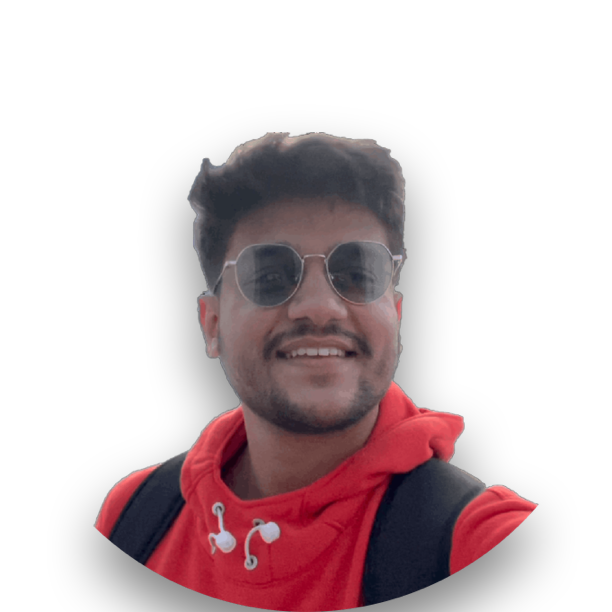
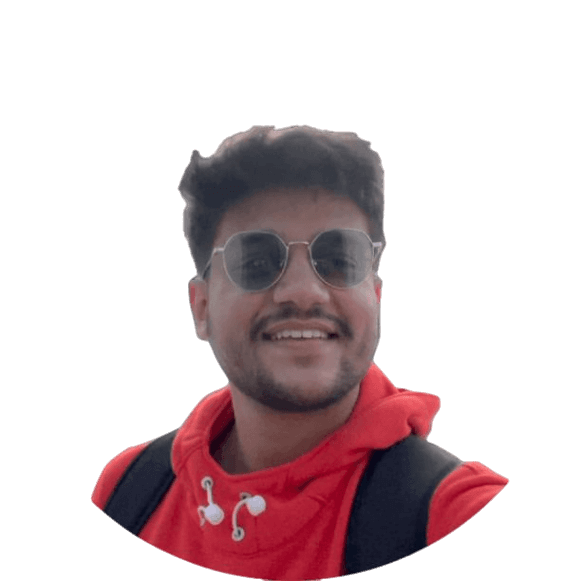
Header Completed

diff --git a/index.html b/index.html
@@ -2,16 +2,16 @@
 <html lang="en">
 
 <head>
-    <meta charset="UTF-8">
-    <meta name="viewport" content="width=device-width, initial-scale=1.0">
+    <meta charset="UTF-8" />
+    <meta name="viewport" content="width=device-width, initial-scale=1.0" />
 
-    <link rel="shortcut icon" href="assets/img/favicon.png" type="image/x-icon">
+    <link rel="shortcut icon" href="assets/img/favicon.png" type="image/x-icon" />
 
     <!-- Remix Icons -->
-    <link href="https://cdn.jsdelivr.net/npm/remixicon@3.2.0/fonts/remixicon.css" rel="stylesheet">
+    <link href="https://cdn.jsdelivr.net/npm/remixicon@3.2.0/fonts/remixicon.css" rel="stylesheet" />
 
     <!-- CSS -->
-    <link rel="stylesheet" href="assets/css/styles.css">
+    <link rel="stylesheet" href="assets/css/styles.css" />
 
     <title>Shivam Bandral</title>
 </head>
@@ -19,7 +19,62 @@
 <body>
     <!-- Header Profile -->
     <header class="profile container">
+        <div class="profile__container grid">
+            <div class="profile__data">
+                <div class="profile__border">
+                    <div class="profile__picture">
+                        <img src="assets/img/profilepicture.png" alt="profile-picture" />
+                    </div>
+                </div>
 
+                <h2 class="profile__name">Shivam Bandral</h2>
+                <h3 class="profile__profession">Web Developer</h3>
+
+                <ul class="profile__social">
+                    <a href="https://www.instagram.com/sherlockedshivam" target="_blank" class="profile__social-link"><i
+                            class="ri-instagram-line"></i></a>
+                    <a href="https://github.com/cheffycoder/" target="_blank" class="profile__social-link"><i
+                            class="ri-github-line"></i></a>
+                    <a href="https://www.linkedin.com/in/shivambandral/" target="_blank" class="profile__social-link"><i
+                            class="ri-linkedin-line"></i></a>
+                </ul>
+            </div>
+            <div class="profile__info grid">
+                <div class="profile__info-group">
+                    <h3 class="profile__info-number">1.5</h3>
+                    <p class="profile__info-description">
+                        Years of <br />
+                        Experience
+                    </p>
+                </div>
+                <div class="profile__info-group">
+                    <h3 class="profile__info-number">+5</h3>
+                    <p class="profile__info-description">
+                        Completed <br />
+                        projects
+                    </p>
+                </div>
+                <div class="profile__info-group">
+                    <h3 class="profile__info-number">10</h3>
+                    <p class="profile__info-description">
+                        Bugfree <br />
+                        Feature releases
+                    </p>
+                </div>
+            </div>
+            <div class="profile__buttons">
+                <a download="" href="assets//pdf/resume.pdf" class="button">
+                    Download CV <i class="ri-file-download-line"></i>
+                </a>
+
+                <div class="profile__buttons-small">
+                    <a href="https://wa.me/+91-9682555108" target="_blank" class="button button__small button__gray"><i
+                            class="ri-whatsapp-line"></i></a>
+                    <a href=mailto:"shivambandral@gmail.com" target="_blank" class="button button__small button__gray"><i
+                            class="ri-mail-line"></i></a>
+                </div>
+            </div>
+        </div>
     </header>
 
     <!-- Main -->
@@ -30,18 +85,13 @@
             <div class="filters__sections">
                 <!-- Projects -->
 
-
                 <!-- Skills -->
-
             </div>
         </section>
     </main>
 
     <!-- Footer -->
-    <footer class="footer container">
-
-    </footer>
-
+    <footer class="footer container"></footer>
 
     <!-- Javascript -->
     <script src="assets/js/main.js"></script>

diff --git a/assets/css/styles.css b/assets/css/styles.css
@@ -1,5 +1,5 @@
 /* Google Fonts */
-@import url('https://fonts.googleapis.com/css2?family=Poppins:wght@400;500;600&display=swap');
+@import url("https://fonts.googleapis.com/css2?family=Poppins:wght@400;500;600&display=swap");
 
 /* CSS Variables */
 :root {
@@ -20,17 +20,17 @@
   --title-color: hsl(var(--hue), 12%, 15%);
   --text-color: hsl(var(--hue), 12%, 45%);
   --text-color-light: hsl(var(--hue), 8%, 75%);
-  --text-color-lighten: hsl(var(--hue), 8%, 92%);
+  --text-color-lighter: hsl(var(--hue), 8%, 92%);
   --body-color: hsl(var(--hue), 100%, 99%);
   --container-color: #fff;
 
   /* Font and typography -> .5rem = 8px | 1rem = 16px ...*/
-  --body-font: 'Poppins', sans-serif;
+  --body-font: "Poppins", sans-serif;
   --h2-font-size: 1.25rem;
   --h3-font-size: 1rem;
-  --normal-font-size: .938rem;
-  --small-font-size: .813rem;
-  --smaller-font-size: .75rem;
+  --normal-font-size: 0.938rem;
+  --small-font-size: 0.813rem;
+  --smaller-font-size: 0.75rem;
 }
 
 /* Responsive typography */
@@ -39,8 +39,8 @@
     --h2-font-size: 1.5rem;
     --h3-font-size: 1.25rem;
     --normal-font-size: 1rem;
-    --small-font-size: .875rem;
-    --smaller-font-size: .813rem;
+    --small-font-size: 0.875rem;
+    --smaller-font-size: 0.813rem;
   }
 }
 
@@ -58,7 +58,9 @@ body {
   color: var(--text-color);
 }
 
-h1, h2, h3 {
+h1,
+h2,
+h3 {
   color: var(--title-color);
   font-weight: 600;
 }
@@ -76,7 +78,6 @@ img {
   height: auto;
 }
 
-
 /* Resusable CSS Classes */
 .container {
   max-width: 968px;
@@ -87,4 +88,149 @@ img {
 .grid {
   display: grid;
   gap: 1.5rem;
+}
+
+/* Profile */
+.profile {
+  position: relative;
+  padding-top: 3.5rem;
+}
+
+.profile__container {
+  row-gap: 2rem;
+}
+
+.profile__data {
+  display: grid;
+  text-align: center;
+}
+
+.profile__picture {
+  width: 100px;
+  height: 100px;
+  background: linear-gradient(
+    180deg,
+    hsla(var(--hue), var(--sat), var(--lig), 1) 0%,
+    hsla(var(--hue), var(--sat), var(--lig), 0.2) 100%
+  );
+  border-radius: 50%;
+  overflow: hidden;
+  display: flex;
+  align-items: flex-end;
+  justify-content: center;
+}
+
+.profile__picture img {
+  width: 75px;
+}
+
+.profile__border {
+  border: 3.5px solid var(--first-color);
+  justify-self: center;
+  width: 115px;
+  height: 115px;
+  border-radius: 50%;
+  display: grid;
+  place-items: center;
+  margin-bottom: 0.75rem;
+}
+
+.profile__name {
+  font-size: var(--h2-font-size);
+}
+
+.profile__profession {
+  font-size: var(--smaller-font-size);
+  font-weight: 500;
+  color: var(--text-color);
+  margin-bottom: 1rem;
+}
+
+.profile__social {
+  display: flex;
+  justify-content: center;
+  column-gap: 0.75rem;
+}
+
+.profile__social-link {
+  font-size: 1.25rem;
+  color: var(--title-color);
+  transition: 0.3s;
+}
+
+.profile__social-link:hover {
+  color: var(--first-color);
+}
+
+.profile__info {
+  grid-template-columns: repeat(3, max-content);
+  justify-content: center;
+  column-gap: 2.5rem;
+}
+
+.profile__info-group {
+  text-align: center;
+}
+
+.profile__info-number {
+  font-size: var(--normal-font-size);
+  margin-bottom: 0.25rem;
+}
+
+.profile__info-description {
+  font-size: var(--smaller-font-size);
+  font-weight: 500;
+}
+
+.profile__buttons, .profile__buttons-small{
+  display: flex;
+  align-items: center;
+  justify-content: center;
+}
+
+.profile__buttons{
+  column-gap: 1rem;;
+}
+
+.profile__buttons-small{
+  column-gap: .25rem;
+}
+
+
+/* buttons */
+
+.button{
+  display: inline-flex;
+  align-items: center;
+  column-gap: .5rem;
+  background-color: var(--first-color);
+  color: #fff;
+  padding: 1.15rem 1.5rem;
+  border-radius: .5rem;
+  transition: .3s;
+  box-shadow: 0 8px 24px hsla(var(--hue), var(--sat), var(lig), .25);
+}
+
+.button i{
+  font-size: 1.25rem;
+}
+
+
+.button:hover{
+  background-color: var(--first-color-alt);
+}
+
+.button__small{
+  padding: .75rem;
+  box-shadow: none;
+}
+
+.button__gray{
+  background-color: var(--text-color-lighter);
+  color: var(--title-color)
+}
+
+
+.button__gray:hover{
+  background-color: var(--text-color-light);
 }
